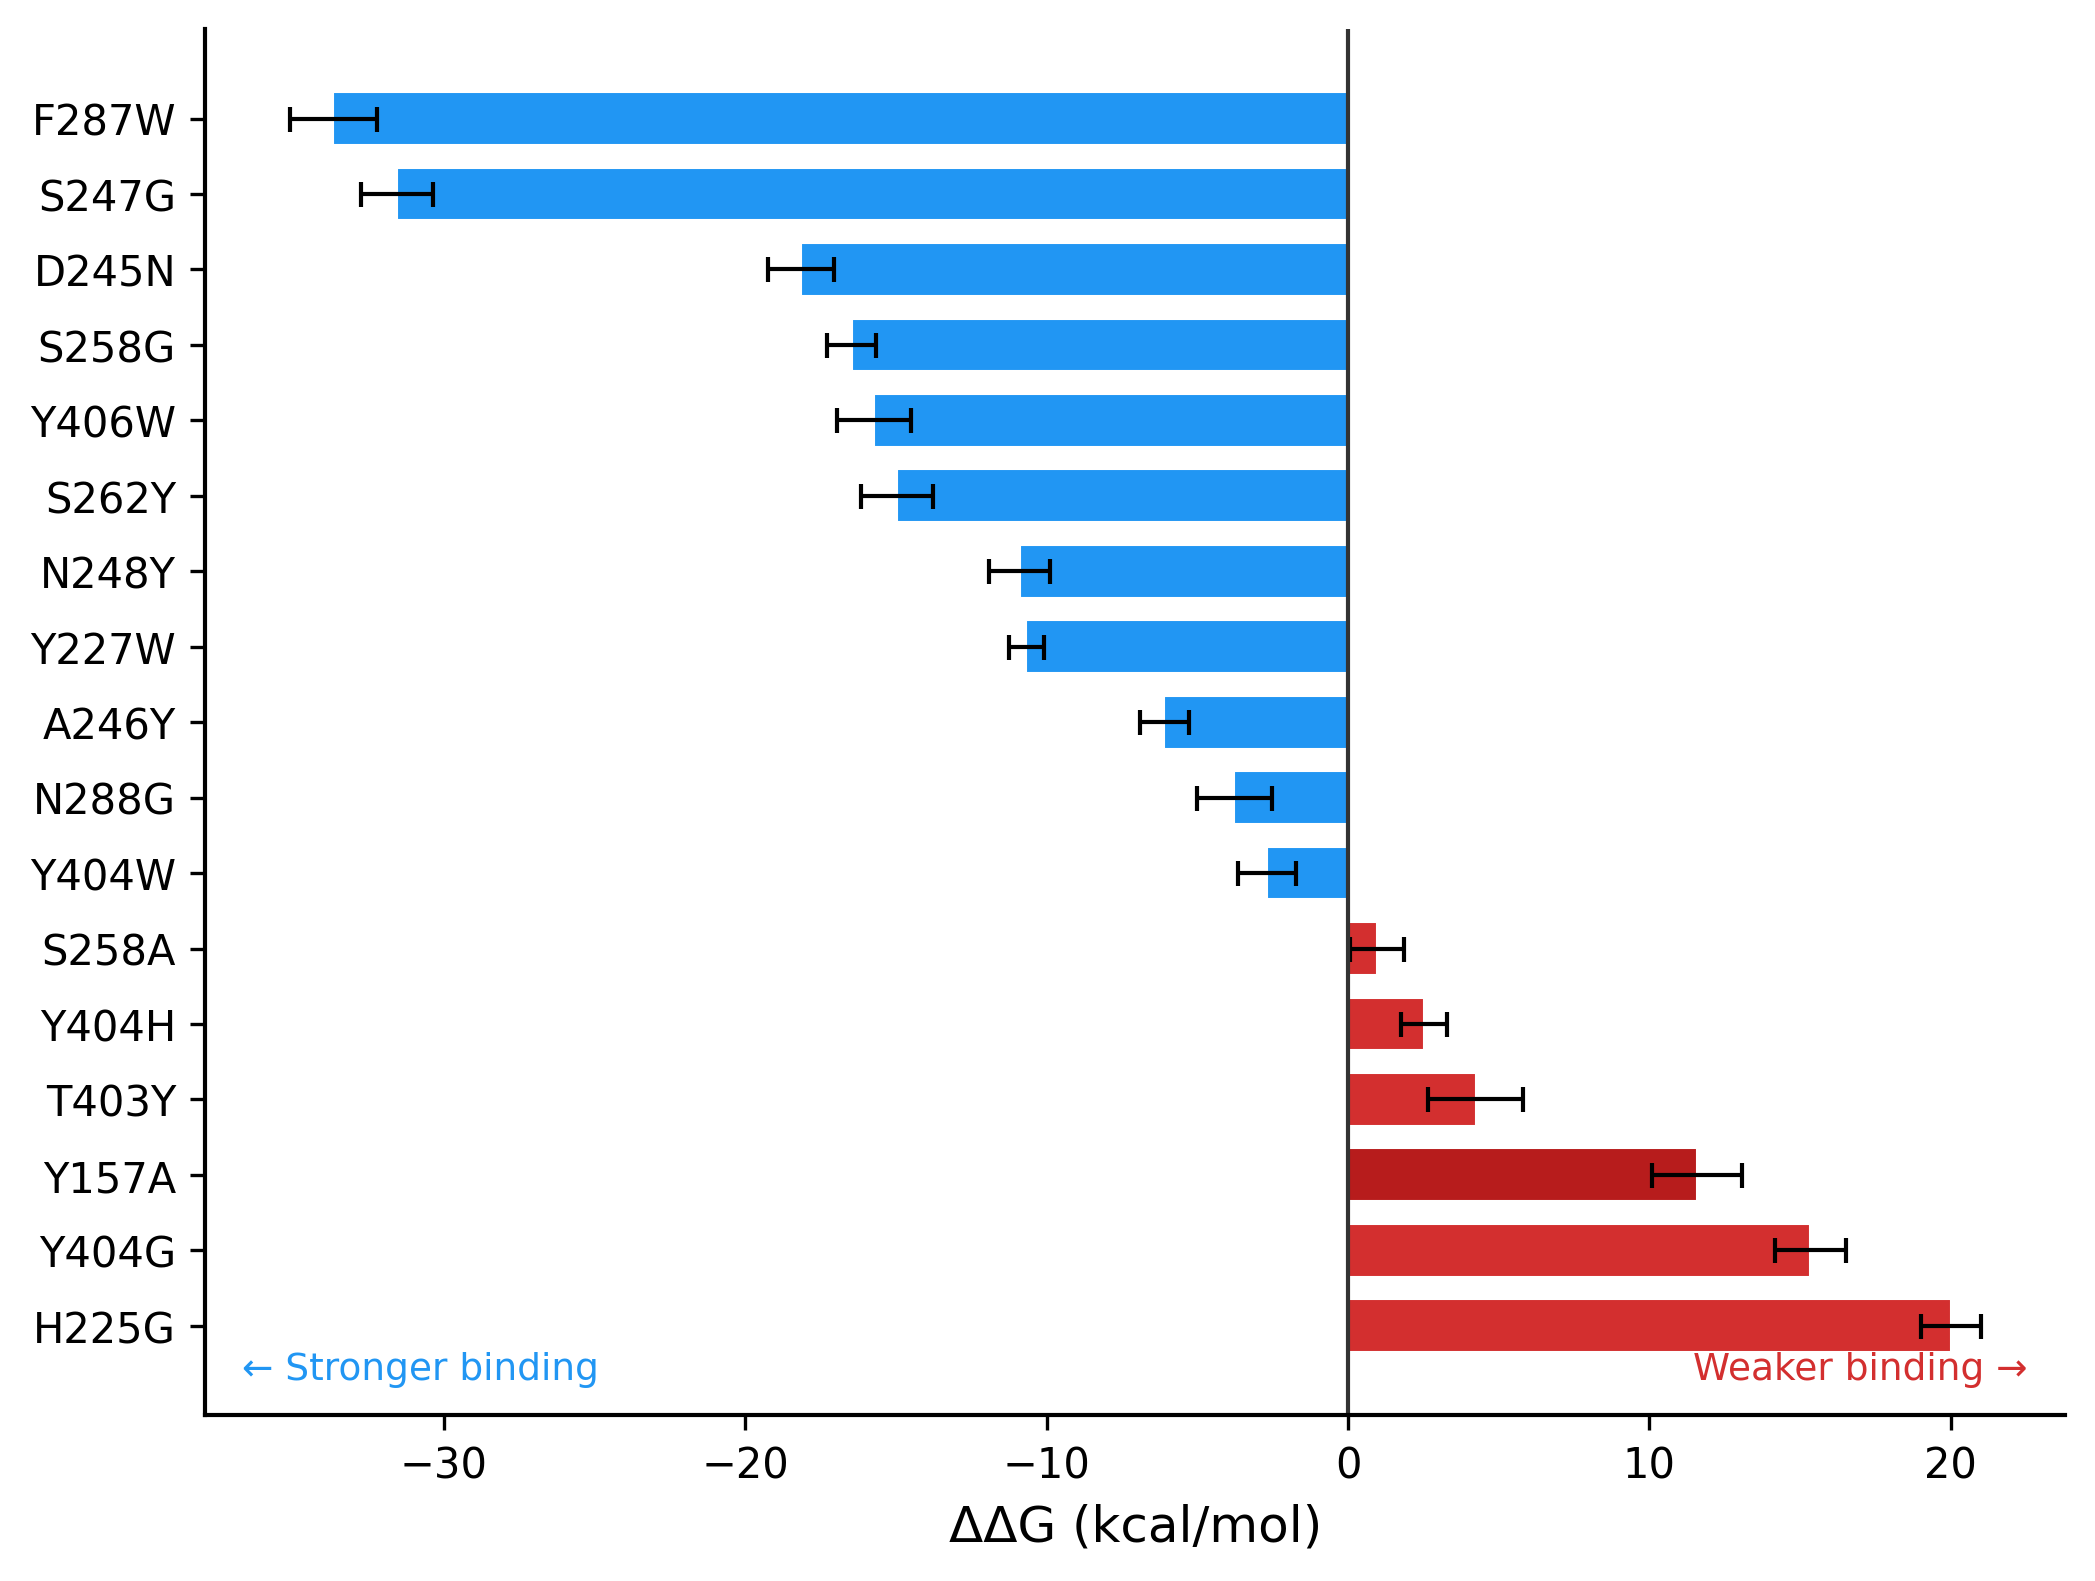
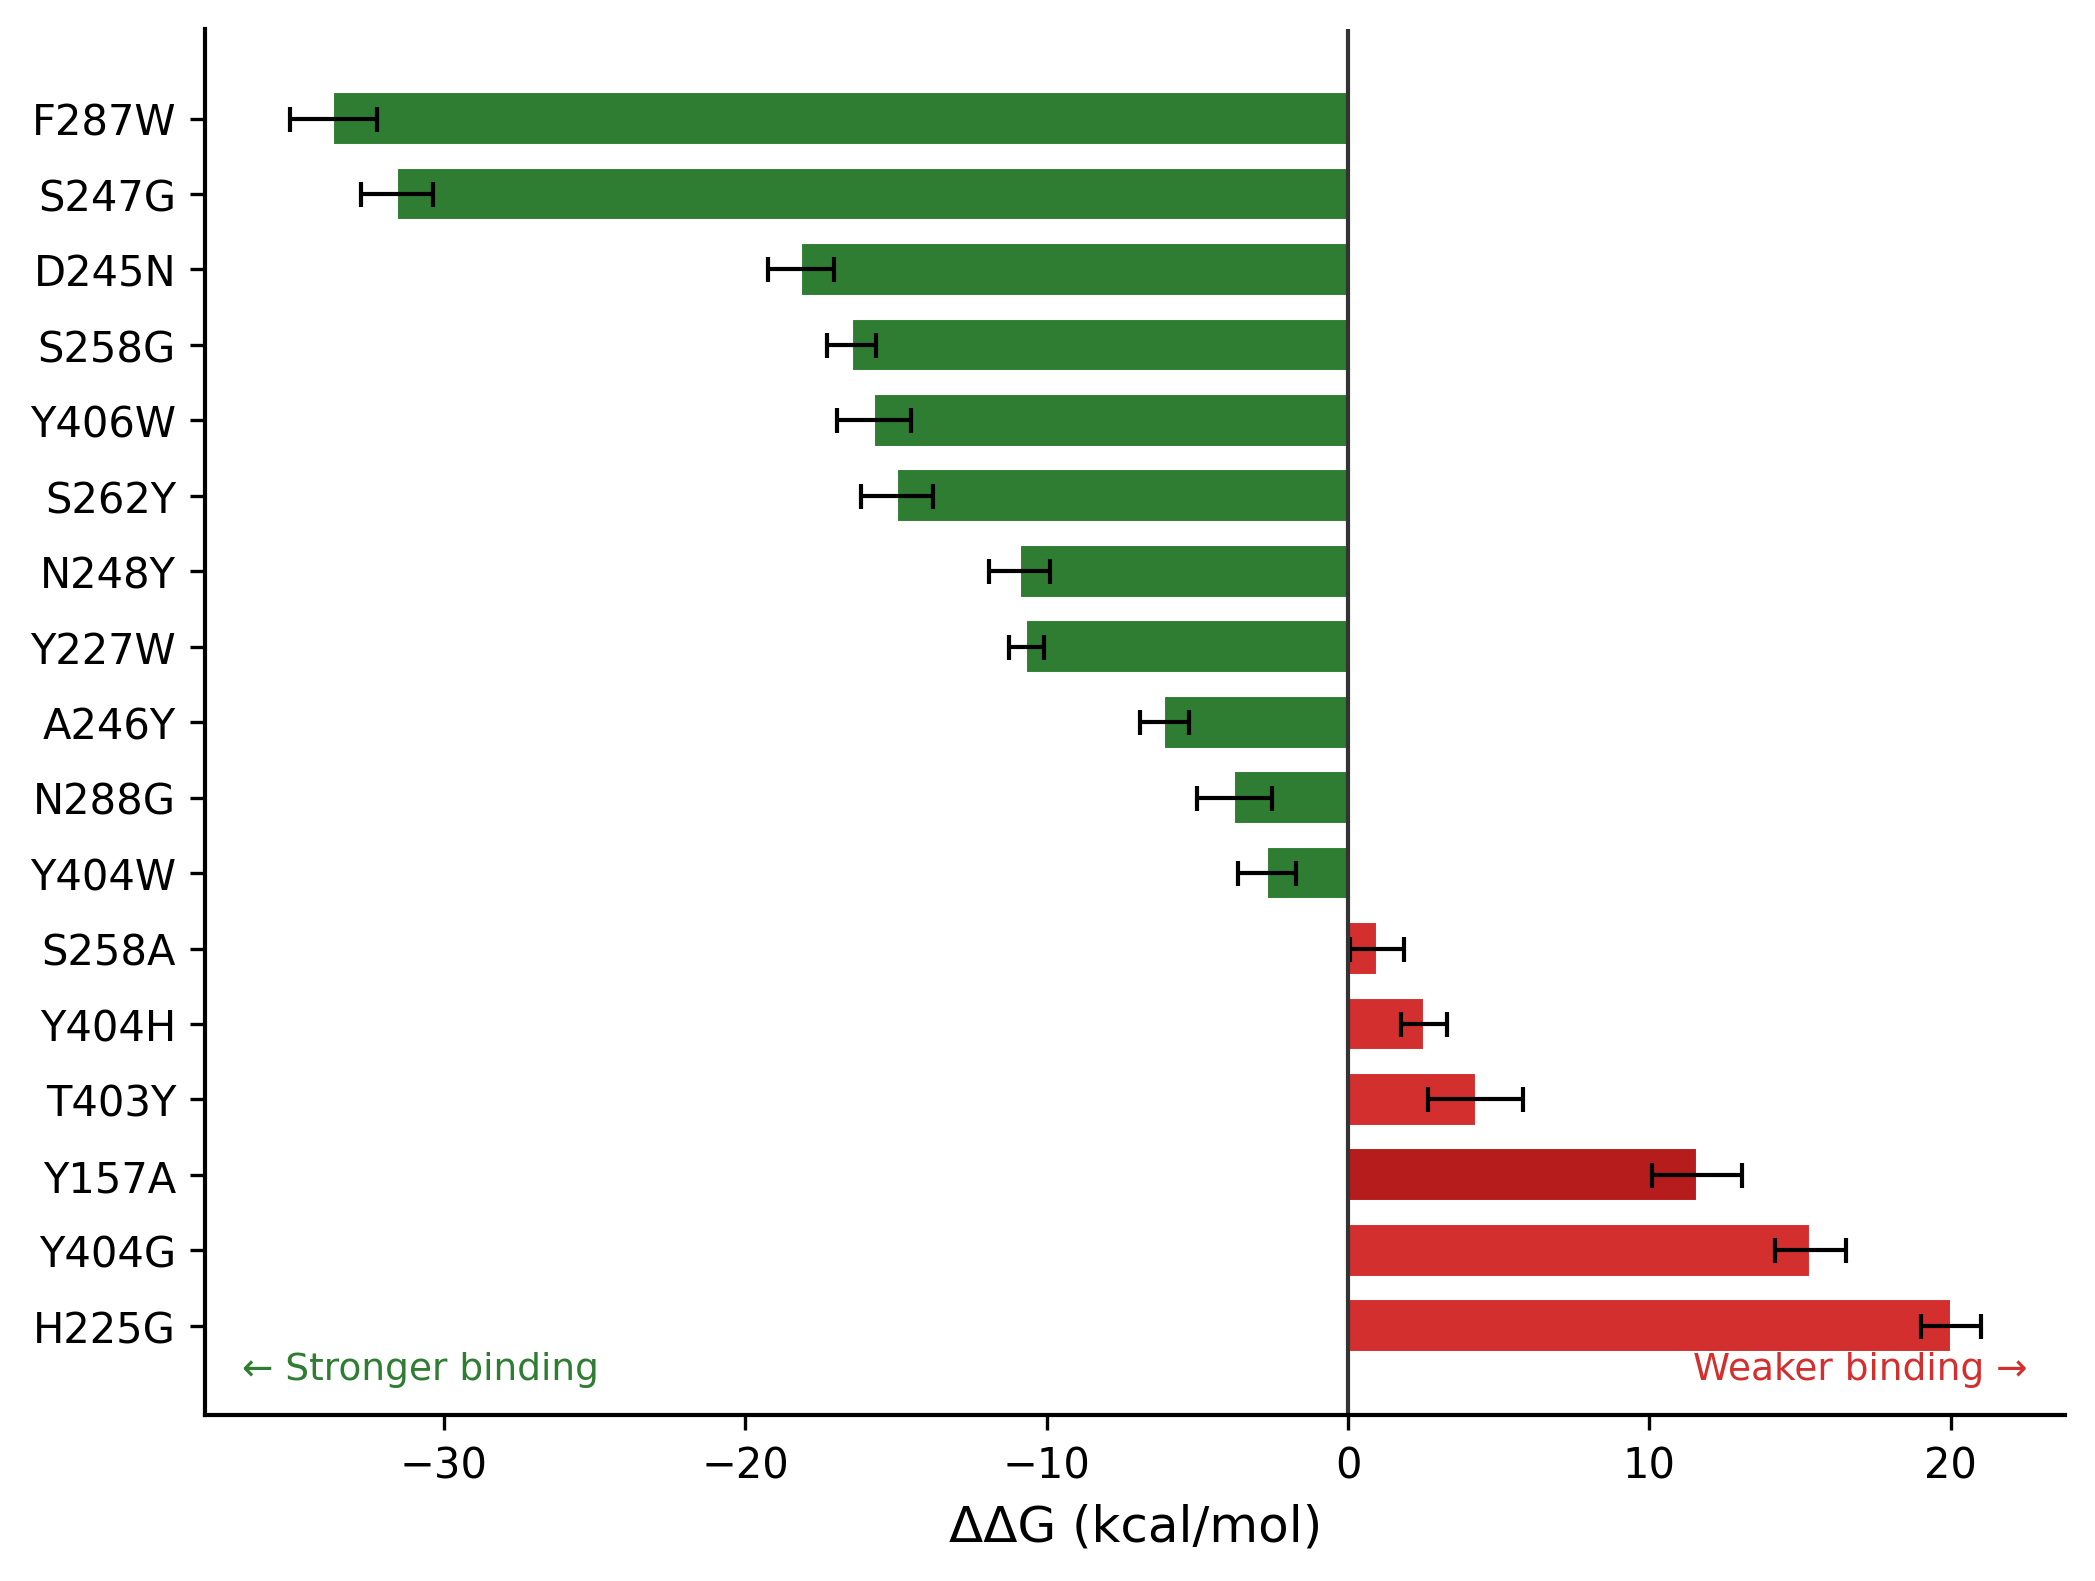
Change ΔΔG plot colors: green for improved binding

Changed region(s): [[0.1551, 0.031, 0.6516, 0.5889], [0.1241, 0.8368, 0.2792, 0.8678]]

diff --git a/scripts/plot_ddg.py b/scripts/plot_ddg.py
@@ -68,7 +68,7 @@ for i, name in enumerate(names):
     if name == 'Y157A':
         colors.append('#B71C1C')
     elif ddgs[i] < 0:
-        colors.append('#2196F3')
+        colors.append('#2E7D32')
     else:
         colors.append('#D32F2F')
 
@@ -89,7 +89,7 @@ ax.spines['right'].set_visible(False)
 
 # Annotations
 ax.text(0.02, 0.02, '\u2190 Stronger binding',
-        transform=ax.transAxes, fontsize=9, color='#2196F3', va='bottom')
+        transform=ax.transAxes, fontsize=9, color='#2E7D32', va='bottom')
 ax.text(0.98, 0.02, 'Weaker binding \u2192',
         transform=ax.transAxes, fontsize=9, color='#D32F2F', va='bottom', ha='right')
 
